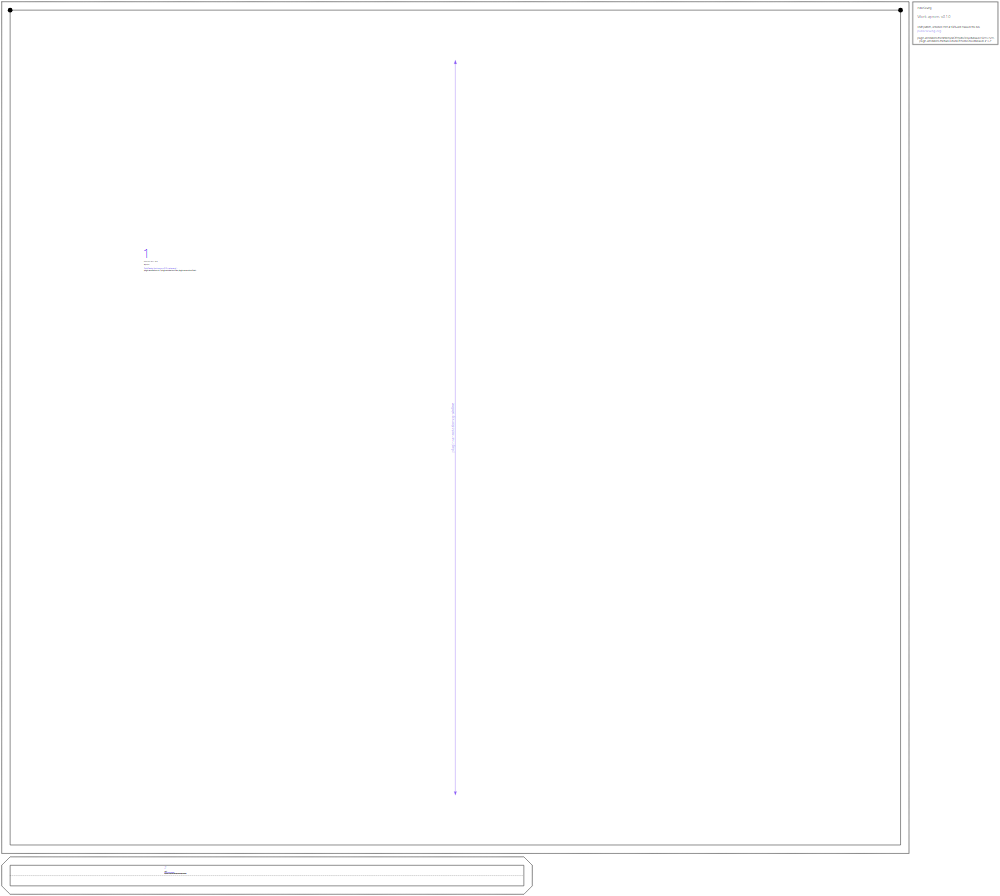
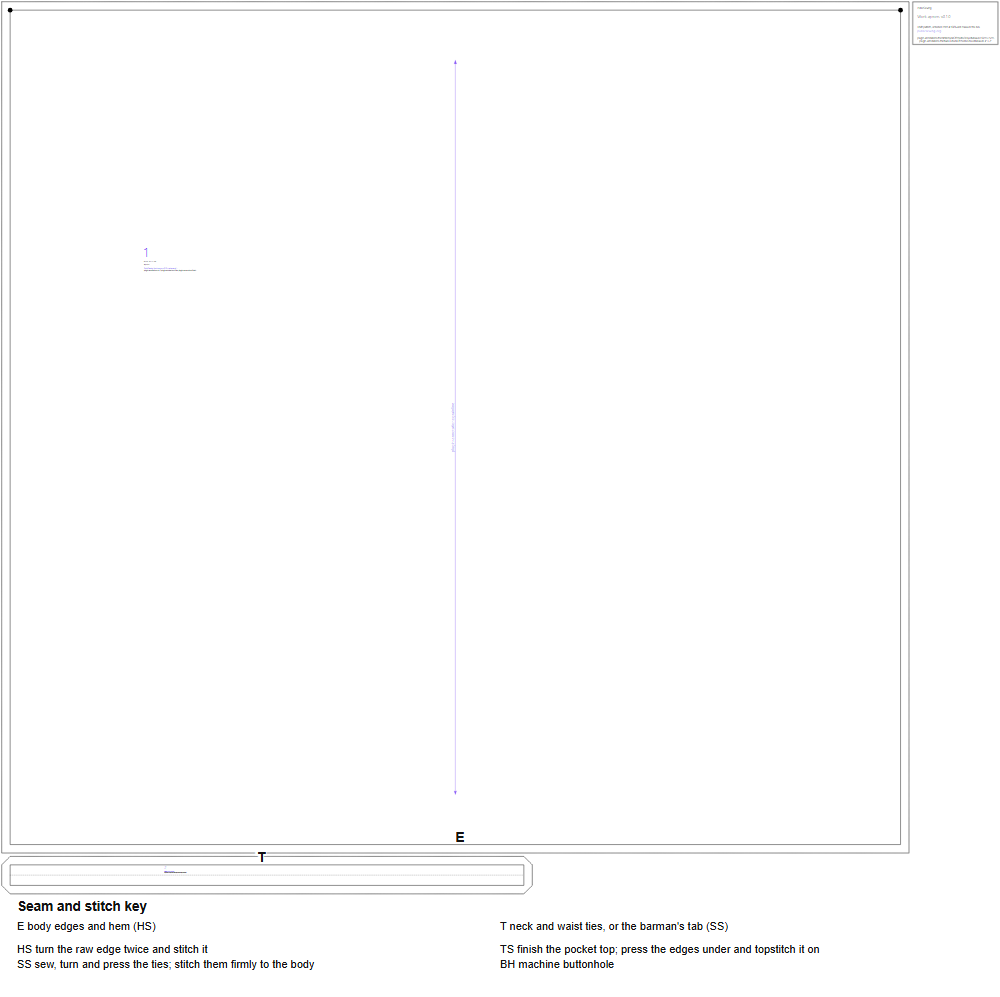
Map the aprons in every style; number their steps
Alternative pieces share printed numbers, so the map lists one of each and every anchor is optional.

Changed region(s): [[0.0, 0.8125, 0.899, 1.0], [0.899, 0.0, 1.0, 0.0625]]

diff --git a/designs/aprons/BRIEF.md b/designs/aprons/BRIEF.md
@@ -28,7 +28,7 @@ Draft all eight styles at adult, child and stout sizes; compare the default with
 
 ## Construction
 
-1. Cut the selected apron body and only the ties, pockets, or tab shown for that style. Finish the raw outer edges of the body, turning the hem and side edges neatly; finish a pointed top or buttonhole before fastening it.
-2. For the plasterer’s or painter’s style, finish the pocket top first, press the other edges under, and sew the pocket to the position shown on the plate.
-3. Make the neck and waist ties, then attach them to the matching body edges. For the barman’s style, make the separate elastic or tape tab and place its button to meet the body buttonhole.
-4. Add the grocer’s hook and fringe only for that style. Check tie or fastening length on the wearer before securing the ends. Vincent gives shapes and fastening types, but this order of assembly is proposed here.
+1. Cut the selected apron body and only the ties, pockets, or tab shown for that style. Finish the E raw outer edges of the body, turning the hem and side edges neatly; finish a pointed top or buttonhole before fastening it.
+2. For the plasterer's or painter's style, finish the P pocket top first, press the other edges under, and sew the pocket to the position shown on the plate.
+3. Make the T neck and waist ties, then attach them to the matching body edges. For the barman's style, make the separate elastic or tape tab and place its button to meet the body's BH buttonhole.
+4. Add the grocer's hook and fringe only for that style. Check tie or fastening length on the wearer before securing the ends. Vincent gives shapes and fastening types, but this order of assembly is proposed here.
